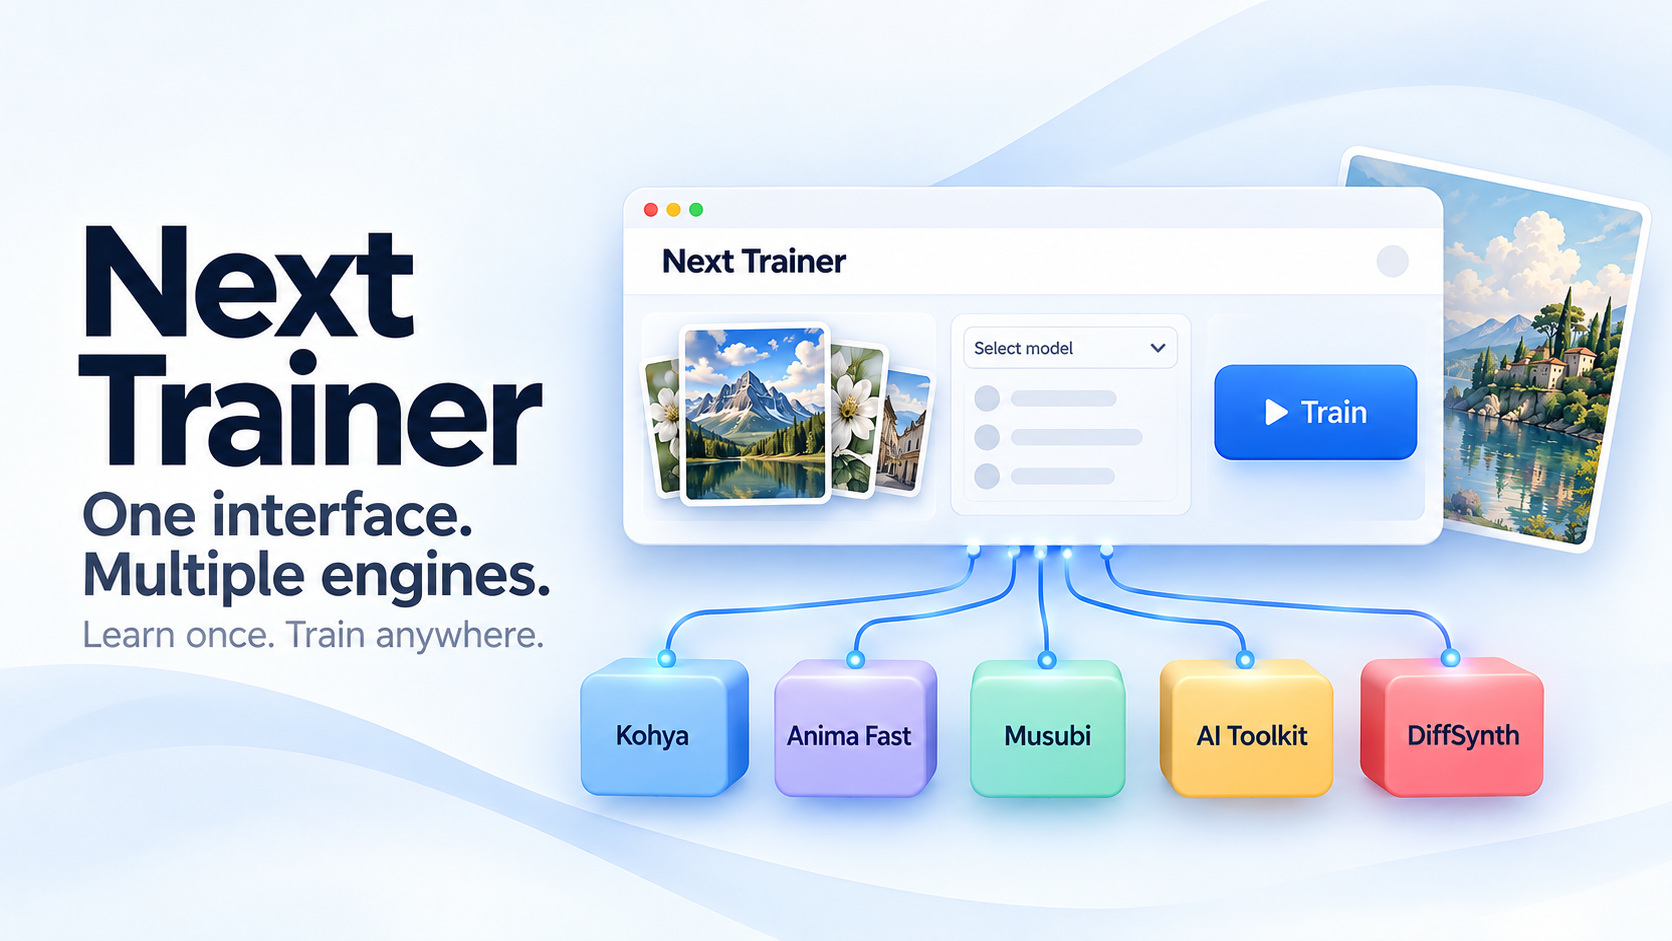
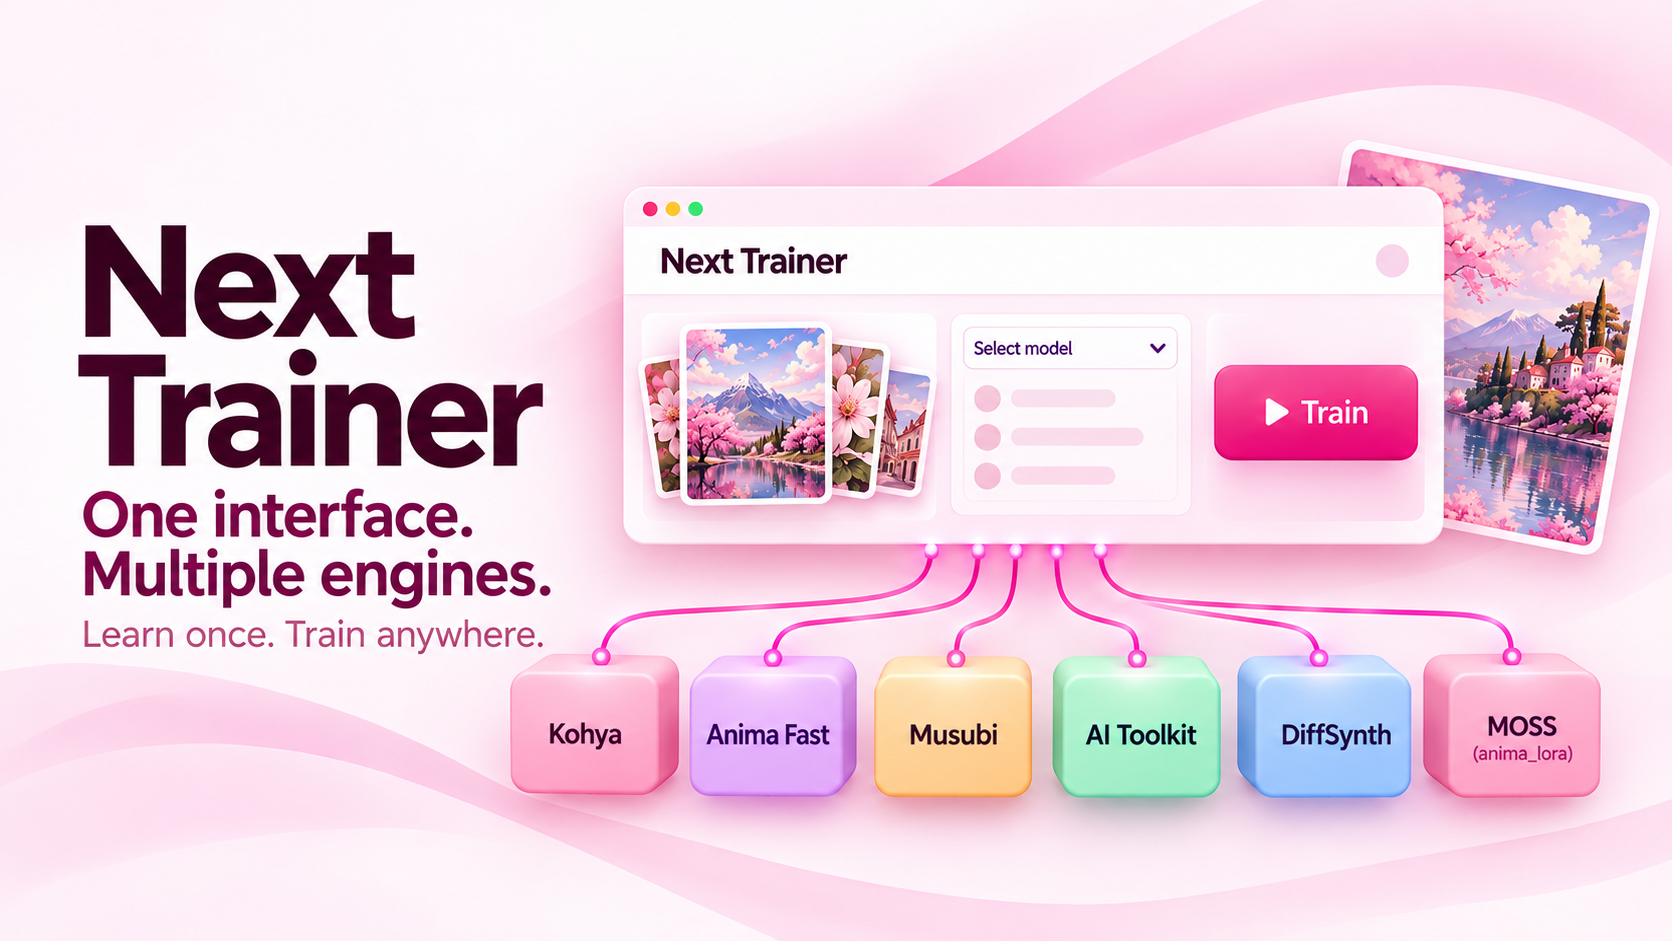
docs: add pink engine and model illustrations with compatibility matrix

diff --git a/README.md b/README.md
@@ -35,6 +35,8 @@ A **100-step style LoRA test** by [KohakuBlueleaf](https://github.com/KohakuBlue
 
 ## Supported training engines
 
+![One interface, multiple training engines — concept illustration](assets/readme/next-trainer-multi-engine.png)
+
 **Kohya · Anima Fast · Musubi · AI Toolkit · DiffSynth-Studio · MOSS (anima_lora)**
 
 Install engines from **Settings → Training engines**, then select the appropriate engine on the training page. After upgrading from 3.1.1 or older, install Kohya once before running Kohya training. Available engines depend on your trainer version; not every model or feature supported upstream is integrated here.
@@ -45,9 +47,31 @@ For MOSS-Image LoRA, use **Kohya** (recommended and selected by default). **MOSS
 
 ## Supported models
 
+![Supported models — concept illustration, not model output samples](assets/readme/next-trainer-models.png)
+
 **MOSS-Image · Qwen-Image-2.1 · Anima · SD 1.5 · SDXL · Flux · FLUX.2 Klein · Krea 2 · Ideogram 4**
 
 Training targets, hardware requirements, and optional engine installation vary by model. See the training tutorials below.
+
+### Model / engine compatibility
+
+✅ = an integrated LoRA entry; — = no integrated entry. This table follows this branch's training modules, not the full capabilities of upstream engines. Model variants and hardware requirements still depend on the selected engine.
+
+| Model | Kohya | Anima Fast | Musubi | AI Toolkit | DiffSynth-Studio | MOSS (anima_lora) |
+| --- | :---: | :---: | :---: | :---: | :---: | :---: |
+| MOSS-Image | ✅ | — | — | — | — | ✅ |
+| Qwen-Image-2.1 | — | — | — | ✅ | ✅ | — |
+| Krea 2 | — | — | ✅ | ✅ | — | — |
+| Anima | ✅ | ✅ | — | ✅ | — | — |
+| FLUX.2 Klein | — | — | — | ✅ | — | — |
+| Ideogram 4 | — | — | ✅ | ✅ | — | — |
+| Flux | ✅ | — | — | ✅ | — | — |
+| SDXL | ✅ | — | — | ✅ | — | — |
+| SD 1.5 | ✅ | — | — | ✅ | — | — |
+
+Kohya also provides full fine-tuning entries for Anima, SDXL, and SD 1.5. MOSS-Image defaults to Kohya; `MOSS (anima_lora)` is an alternative. Lumina has a Kohya LoRA entry accessible via `?model=lumina`, but is hidden from the normal model picker.
+
+The illustrations above are conceptual; their artwork is not a benchmark or a sample generated by each labelled model.
 
 ## Training tutorials
 

diff --git a/README-zh.md b/README-zh.md
@@ -35,6 +35,8 @@
 
 ## 支持的训练引擎
 
+![一个前端，多种训练引擎（概念示意图）](assets/readme/next-trainer-multi-engine.png)
+
 **Kohya · Anima Fast · Musubi · AI Toolkit · DiffSynth-Studio · MOSS (anima_lora)**
 
 引擎可在 **设置 → 训练引擎** 中按需安装，再到训练页选择对应引擎。从 3.1.1 或更早版本升级后，首次使用 Kohya 训练前需先安装 Kohya 引擎。可用引擎以所用训练器版本为准；接入引擎不代表已经支持其上游的全部模型和功能。
@@ -45,9 +47,31 @@
 
 ## 支持的模型
 
+![支持的模型概念示意图（非各模型实际输出样张）](assets/readme/next-trainer-models.png)
+
 **MOSS-Image · Qwen-Image-2.1 · Anima · SD 1.5 · SDXL · Flux · FLUX.2 Klein · Krea 2 · Ideogram 4**
 
 不同模型支持的训练目标、硬件要求和引擎安装方式有所区别，详见下方训练教程。
+
+### 模型与训练引擎对应表
+
+✅ 表示已集成的 LoRA 训练入口；— 表示暂无对应入口。此表以当前分支的训练模块为准，不代表上游引擎的全部能力；具体模型版本和硬件要求仍以对应引擎教程为准。
+
+| 模型 | Kohya | Anima Fast | Musubi | AI Toolkit | DiffSynth-Studio | MOSS (anima_lora) |
+| --- | :---: | :---: | :---: | :---: | :---: | :---: |
+| MOSS-Image | ✅ | — | — | — | — | ✅ |
+| Qwen-Image-2.1 | — | — | — | ✅ | ✅ | — |
+| Krea 2 | — | — | ✅ | ✅ | — | — |
+| Anima | ✅ | ✅ | — | ✅ | — | — |
+| FLUX.2 Klein | — | — | — | ✅ | — | — |
+| Ideogram 4 | — | — | ✅ | ✅ | — | — |
+| Flux | ✅ | — | — | ✅ | — | — |
+| SDXL | ✅ | — | — | ✅ | — | — |
+| SD 1.5 | ✅ | — | — | ✅ | — | — |
+
+Kohya 还提供 Anima、SDXL、SD 1.5 的全量训练入口。MOSS-Image 默认使用 Kohya，`MOSS (anima_lora)` 为备选。Lumina 保留 Kohya LoRA 入口，可通过 `?model=lumina` 访问，但不在常规模型选择列表中展示。
+
+上方配图均为概念示意，其中画面不代表各标注模型的实际生成效果或评测结果。
 
 ## 训练教程
 
